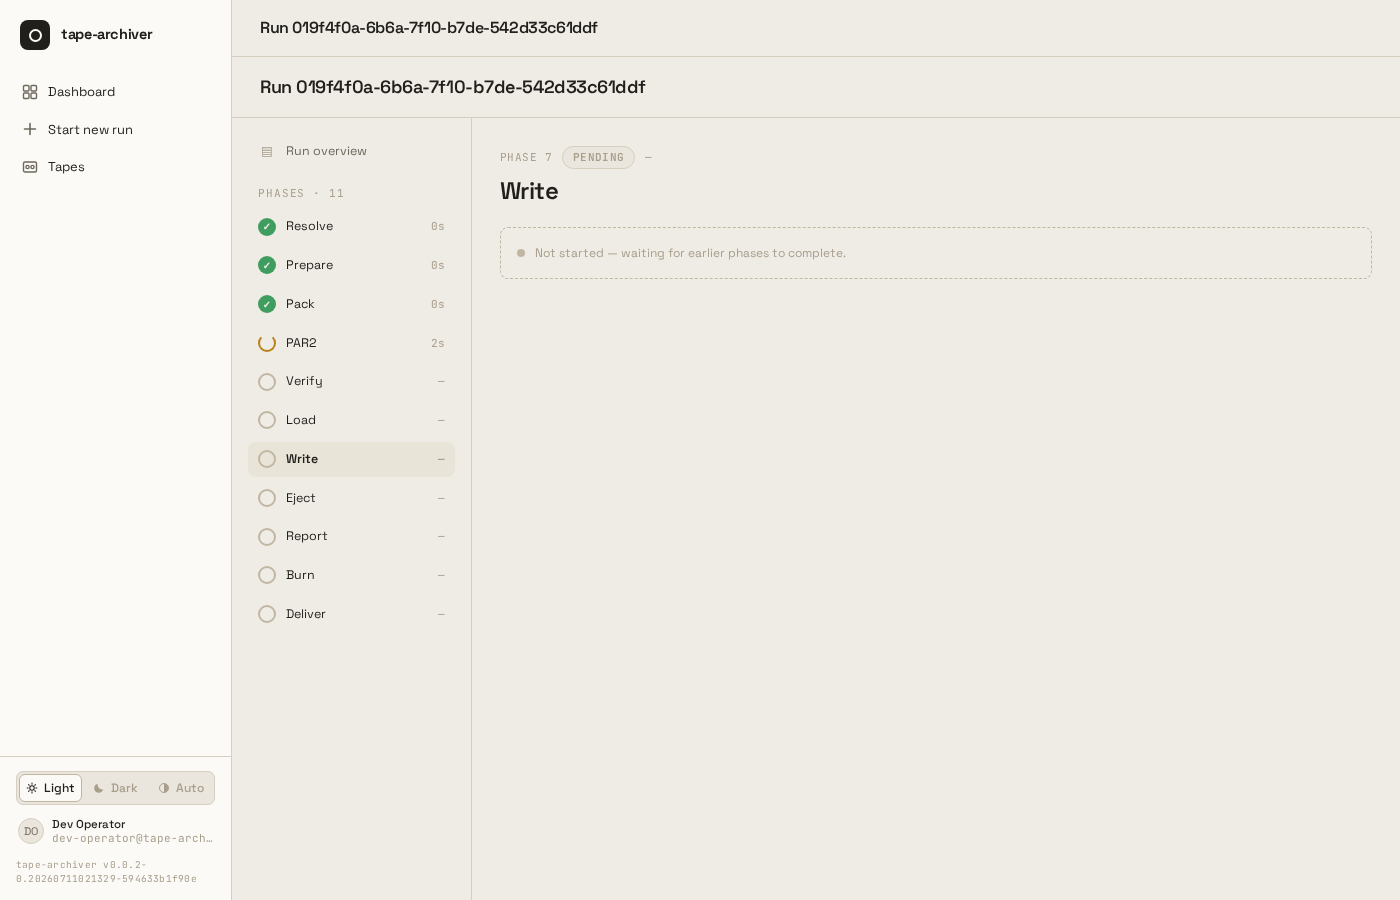
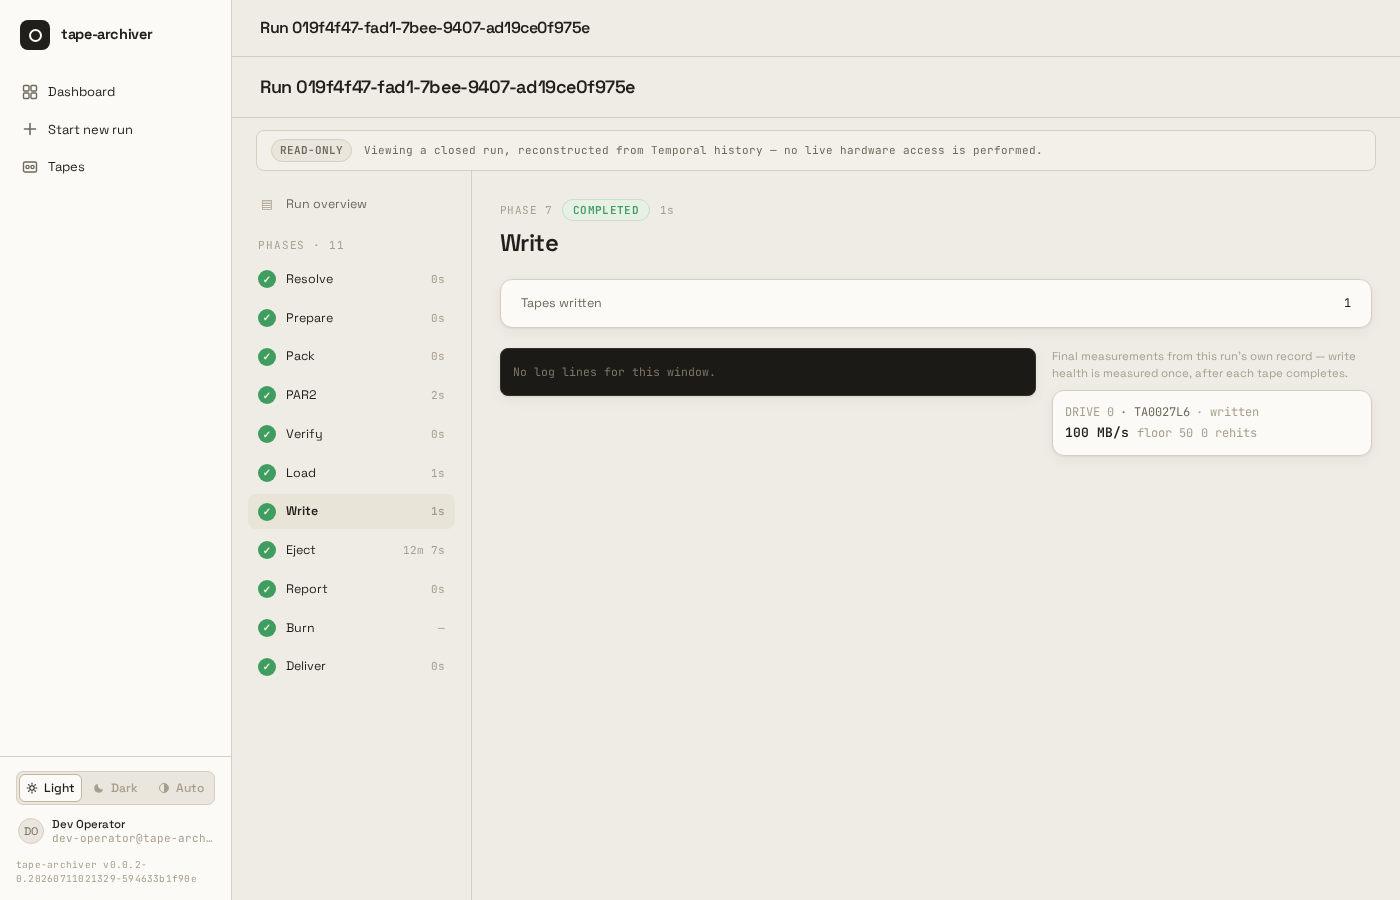
fix(web,e2e): review follow-ups — dark Write screenshot, drive-metrics e2e assertion, dashboard race tolerance
- DriveMetricsPanel: labeled <section> landmark so all its states are
  addressable by one accessible name (screen readers + e2e).
- e2e Write-phase block now asserts the drive-metrics region alongside the
  log panel (closes the AC4 gap).
- Write-phase screenshots recaptured light+dark from a completed run's
  real Write view (the old light capture showed the pending placeholder);
  docs table restored to the Light|Dark pattern.
- submit-monitor spec: the dashboard check now tolerates the run finishing
  before the second page loads (dry runs complete in seconds) — asserts the
  run's row either way and the active card only while genuinely open.
- Suite re-verified live: 2/2 passed against a fresh web-dev stack, incl.
  an organic eject-pause -> I/O-station-empty -> auto-resume cycle.

diff --git a/web/e2e/submit-monitor-history.spec.ts b/web/e2e/submit-monitor-history.spec.ts
@@ -141,6 +141,24 @@ test('submit a dry-run (JSON mode), watch it progress live with the phase rail, 
   // spinner.
   await expect(page.getByRole('log')).toBeVisible({ timeout: 3 * 60_000 })
 
+  // The drive-metrics panel (DriveMetricsPanel — the Write phase's other
+  // AC4 panel) must be present as its own labeled region alongside the log
+  // panel, and must settle into one of its meaningful states rather than a
+  // stuck loading spinner: a real MB/s reading (live from VictoriaMetrics,
+  // or a terminal run's final recorded write health), an honest "no
+  // measurement" note (write health is measured only after a tape's write
+  // window closes — DriveGauge.tsx), an empty "no tapes" note, or the
+  // panel's styled unavailable state. Which one depends on where the run
+  // has progressed by the time this executes — all are correct; a
+  // perpetual "Loading" is the only wrong answer.
+  const metricsPanel = page.getByRole('region', { name: 'Drive write health' })
+  await expect(metricsPanel).toBeVisible()
+  await expect(
+    metricsPanel.getByText(
+      /MB\/s|No measurement yet|No measurement was taken|No tapes were written|Metrics unavailable|Write-health unavailable/,
+    ),
+  ).toBeVisible({ timeout: 60_000 })
+
   // Back to the overview for the remaining assertions.
   await rail.getByRole('button', { name: 'Run overview' }).click()
   await expect(statusHeading(page)).toBeVisible()
@@ -158,16 +176,33 @@ test('submit a dry-run (JSON mode), watch it progress live with the phase rail, 
   try {
     await historyPage.goto('/')
 
-    // Current-run card: active state has an "Open run ->" link into this
-    // same run (CurrentRunCard.tsx) — distinct from the idle state's "Start
-    // a run ->" link this same card showed before this run existed.
-    await expect(historyPage.getByRole('link', { name: 'Open run →' })).toBeVisible({ timeout: 30_000 })
+    // The dashboard must reflect this run. Which state it reflects is a
+    // race this test cannot control: a dry-run against mhvtl can finish in
+    // well under a minute, so by the time this second page loads, the run
+    // is either still Running (current-run card shows its active state with
+    // an "Open run ->" link — distinct from the idle state's "Start a
+    // run ->") or already Completed (the card is back to idle and the run
+    // sits in the embedded history table). Both are correct dashboard
+    // behavior for AC2/AC4; assert the run's row either way, and only
+    // assert the active-state card when the run is genuinely still open.
+    const runRow = historyPage.getByRole('link', { name: runId, exact: true })
+    await expect(runRow).toBeVisible({ timeout: 30_000 })
 
-    const runningRow = historyPage.getByRole('link', { name: runId, exact: true })
-    await expect(runningRow).toBeVisible({ timeout: 30_000 })
-    await expect(runningRow.getByText('Running', { exact: true }).first()).toBeVisible()
-    // The row's LAST PHASE cell (grid column 5) must show a real phase.
-    await expect(runningRow.locator(':scope > span').nth(4)).not.toHaveText('—', { timeout: 60_000 })
+    const stillRunning = await runRow
+      .getByText('Running', { exact: true })
+      .first()
+      .isVisible()
+      .catch(() => false)
+    if (stillRunning) {
+      await expect(historyPage.getByRole('link', { name: 'Open run →' })).toBeVisible({ timeout: 30_000 })
+      // The row's LAST PHASE cell (grid column 5) must show a real phase.
+      await expect(runRow.locator(':scope > span').nth(4)).not.toHaveText('—', { timeout: 60_000 })
+    } else {
+      // Already terminal: the row must carry a terminal status badge and a
+      // real final phase, proving the dashboard tracked it to completion.
+      await expect(runRow.getByText(/Completed|Failed/).first()).toBeVisible()
+      await expect(runRow.locator(':scope > span').nth(4)).not.toHaveText('—')
+    }
   } finally {
     await historyPage.close()
   }

diff --git a/web/src/DriveMetricsPanel.tsx b/web/src/DriveMetricsPanel.tsx
@@ -107,12 +107,19 @@ const defaultPollIntervalMs = 5000
 // empty/"no-data" outside the Write phase), and issue #277's redesigned run
 // page re-homes it into the fuller Write-phase layout described in
 // DESIGN_ANALYSIS.md §3.
+//
+// The labeled <section> wrapper exists so the panel is addressable as one
+// landmark regardless of which of its states is rendering (live gauges, the
+// terminal write-health summary, "unavailable", "no data") — its inner
+// states share no other stable root element. Screen-reader users get a
+// named region for the same reason tests get a stable locator (issue #281's
+// e2e pass asserts this panel on the Write phase by this accessible name).
 function DriveMetricsPanel({ runId, terminal = false, pollIntervalMs = defaultPollIntervalMs }: DriveMetricsPanelProps) {
-  if (terminal) {
-    return <FinalDriveMetrics runId={runId} />
-  }
-
-  return <LiveDriveMetrics runId={runId} pollIntervalMs={pollIntervalMs} />
+  return (
+    <section aria-label="Drive write health">
+      {terminal ? <FinalDriveMetrics runId={runId} /> : <LiveDriveMetrics runId={runId} pollIntervalMs={pollIntervalMs} />}
+    </section>
+  )
 }
 
 // LiveDriveMetrics is the non-terminal (VictoriaMetrics-polling) half of

diff --git a/docs/web-ui.md b/docs/web-ui.md
@@ -242,8 +242,7 @@ and keeps retrying automatically.
 | --- | --- |
 | ![A run's live detail view, light mode](images/web-ui-run-detail-light.png) | ![A run's live detail view, dark mode](images/web-ui-run-detail-dark.png) |
 | ![A completed run's read-only detail view, light mode](images/web-ui-run-detail-completed-light.png) | ![A completed run's read-only detail view, dark mode](images/web-ui-run-detail-completed-dark.png) |
-
-![The Write phase's own view, with live per-drive metrics and its log panel](images/web-ui-run-detail-write-light.png)
+| ![The Write phase's own view, with its log panel and per-drive write health, light mode](images/web-ui-run-detail-write-light.png) | ![The Write phase's own view, with its log panel and per-drive write health, dark mode](images/web-ui-run-detail-write-dark.png) |
 
 Reach a run's detail page either via the **View run** link right after submitting, or by
 clicking through from the [dashboard's runs table](#dashboard).